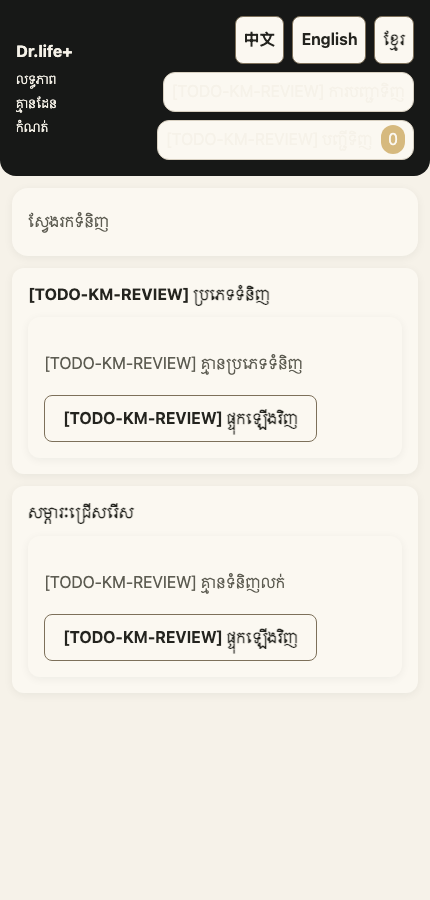
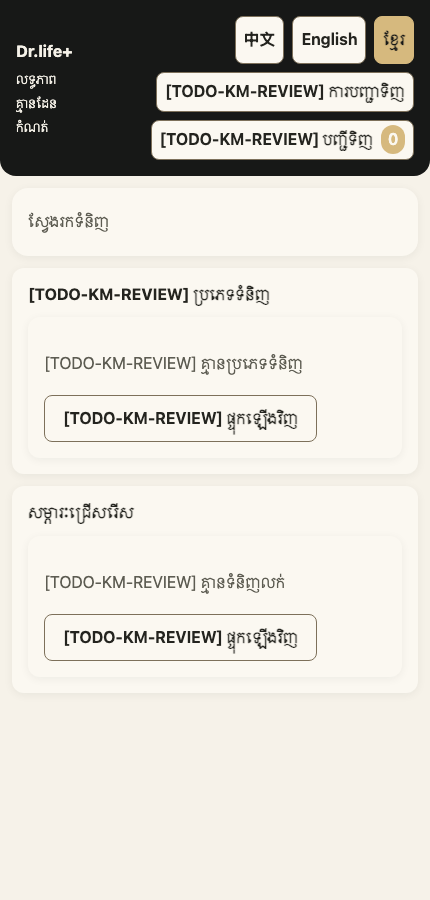
docs: refresh PR235 visual evidence

Changed region(s): [[0.3326, 0.0, 0.9674, 0.1867]]

diff --git a/index.md b/index.md
@@ -1,6 +1,6 @@
 # PR #235 evidence
 
-Evidence was captured from PR #235 head `f9fd8d7` after the B6 rework.
+Evidence was captured from PR #235 head `f56e905` after the B6 rework.
 
 ## Matrix
 
@@ -10,14 +10,14 @@ The 12 screenshots cover 430px buyer home, merchant order list, and merchant ord
 - `screenshots/merchant-orders-430-{light,dark}-{zh,km}.png`
 - `screenshots/merchant-order-detail-430-{light,dark}-{zh,km}.png`
 
-The merchant detail fixture includes a money amount rendered through the shared e4 formatter and the masked phone `****1234`. The capture waits through the startup gate, asserts the light/dark root background, verifies dark language/status target contrast at least 4.5:1, and verifies the business-page controls before saving each screenshot. Dark/light pairs have distinct SHA-256 hashes.
+The merchant detail fixture includes a money amount rendered through the shared e4 formatter and the masked phone `****1234`. The capture waits through the startup gate, asserts the light/dark root background, verifies selected-language highlighting, dark language/status contrast at least 4.5:1, light buyer action contrast at least 4.5:1, no horizontal overflow, no order badge/summary overlap, and no merchant header brand/action overlap before saving each screenshot. Dark/light pairs have distinct SHA-256 hashes.
 
 ## Verification
 
 - PASS: all 12 captures completed from the PR #235 head.
 - PASS: buyer home is captured in Chinese and Khmer for both themes.
 - PASS: merchant order list and order detail are captured in Chinese and Khmer for both themes.
-- PASS: PR #235 implementation commit `f9fd8d7` was pushed once; this evidence is isolated on `evidence/pr-235`.
+- PASS: PR #235 implementation commit `f56e905` was pushed once; this evidence is isolated on `evidence/pr-235`.
 - PASS: language and refresh controls use the shared `Button`; dark neutral status and unselected language controls pass the scripted 4.5:1 contrast check.
-- PASS: header action labels stay unbroken at 430px while the action row wraps as needed.
-- PASS: order detail line items use separated description/amount columns; order lists have no default bullets and ellipsize long IDs; 16 status filters stay in one horizontal scrolling row.
+- PASS: header action labels stay unbroken at 430px while the action row wraps below the merchant brand as needed.
+- PASS: order detail line items use separated description/amount columns; order lists have no default bullets, place the status badge below the order summary without overlap, and ellipsize long IDs; 16 status filters stay in one horizontal scrolling row.
